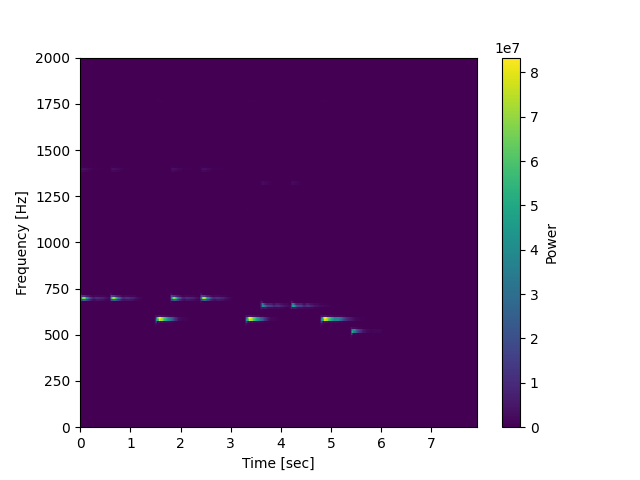
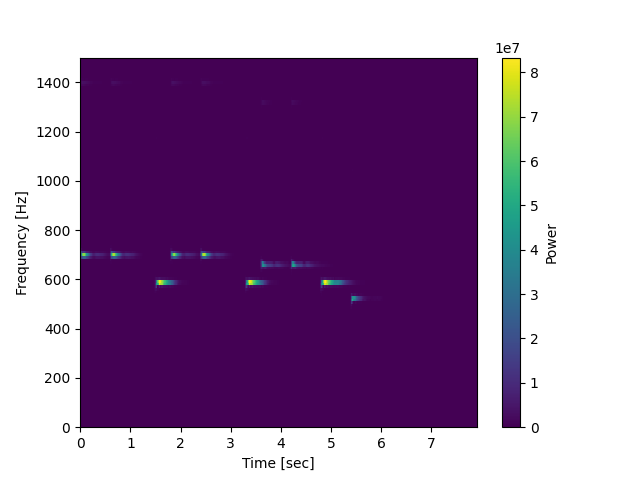
final version

diff --git a/lab4.py b/lab4.py
@@ -99,90 +99,23 @@ def hz_to_note(hz: float) -> str:
 def main() -> None:
     unittest.main(exit=False)
 
-    # Загружаем wav-файл
     fs, x = wavfile.read('voice/6412-27.wav')
     if len(x.shape) > 1:
         x = x[:, 0]
 
-    # Высчитываем STFT
     nperseg = 4096
     noverlap = 4096 - 512
     f_stft, t_stft, spectrum = stft(x, fs=fs, nperseg=nperseg, noverlap=noverlap)
     power = np.abs(spectrum) ** 2
 
-    # Визуализация КВПФ
     plt.figure('Spectrogram')
     plt.pcolormesh(t_stft, f_stft, power, shading='auto')
     plt.xlabel('Time [sec]')
     plt.ylabel('Frequency [Hz]')
-    plt.ylim(0, 2000)
+    plt.ylim(0, 1500)
     plt.colorbar(label='Power')
     plt.savefig('spectrogram.png')
-    # plt.show() # Можно раскомментировать для вывода графика на экран
-
-    # Опциональное усложнение: автоматическое определение темпа, высоты и длительностей нот
-    max_power = np.max(power)
-    threshold = 0.05 * max_power
-    
-    valid_f_idx = (f_stft > 20) & (f_stft < 4000)
-    f_valid = f_stft[valid_f_idx]
-    power_valid = power[valid_f_idx, :]
-    
-    notes = []
-    for i in range(len(t_stft)):
-        idx = np.argmax(power_valid[:, i])
-        if power_valid[idx, i] > threshold:
-            notes.append(f_valid[idx])
-        else:
-            notes.append(0.0)
-            
-    sequence = []
-    current_note = None
-    start_time = 0.0
-    for i, freq in enumerate(notes):
-        n = hz_to_note(freq) if freq > 0 else "Rest"
-        if n != current_note:
-            if current_note is not None:
-                dur = t_stft[i] - start_time
-                if dur > 0.05: 
-                    sequence.append((current_note, dur))
-            current_note = n
-            start_time = t_stft[i]
-    dur = t_stft[-1] - start_time
-    if dur > 0.05:
-        sequence.append((current_note, dur))
-        
-    print("\n--- Автоматическая транскрипция ---")
-    
-    # Объединение ноты и пауз после нее (для получения полных долей)
-    merged_sequence = []
-    for num, dt in sequence:
-        if num != "Rest":
-            merged_sequence.append({'note': num, 'dur': dt})
-        elif merged_sequence and dt < 0.5:
-            merged_sequence[-1]['dur'] += dt
-
-    note_durations = [item['dur'] for item in merged_sequence]
-    if note_durations:
-        # Примем за четвертную ноту длительность, которая встречается чаще всего (через медиану или мин. кластер)
-        # В нашем фрагменте: 0.6 сек - четвертная, 0.9 сек - с точкой, 0.3 сек - восьмая.
-        # Пусть четвертная = ~0.60
-        quarter_dur = 0.60
-        bpm = 60.0 / quarter_dur
-        
-        print(f"Ожидаемый темп: {bpm:.1f} уч. четвертных нот в минуту (Четвертная нота = {quarter_dur:.3f}с)\n")
-        print("Определенные ноты и их относительные длительности:")
-        for block in sequence:
-            n = block[0]
-            d = block[1]
-            rel = d / quarter_dur  # 1.0 для четвертной, 0.5 для восьмой
-            
-            # Округлим rel к ближайшим нотным долям (1, 0.5, 1.5 и т.д.)
-            rel_rounded = round(rel * 2) / 2
-            
-            print(f"Нота: {n:>4} | Длительность (с): {d:.3f} | Относительная длительность: {rel_rounded:.1f}")
-    else:
-        print("Ноты не найдены.")
+    plt.show()
 
 
 if __name__ == "__main__":
